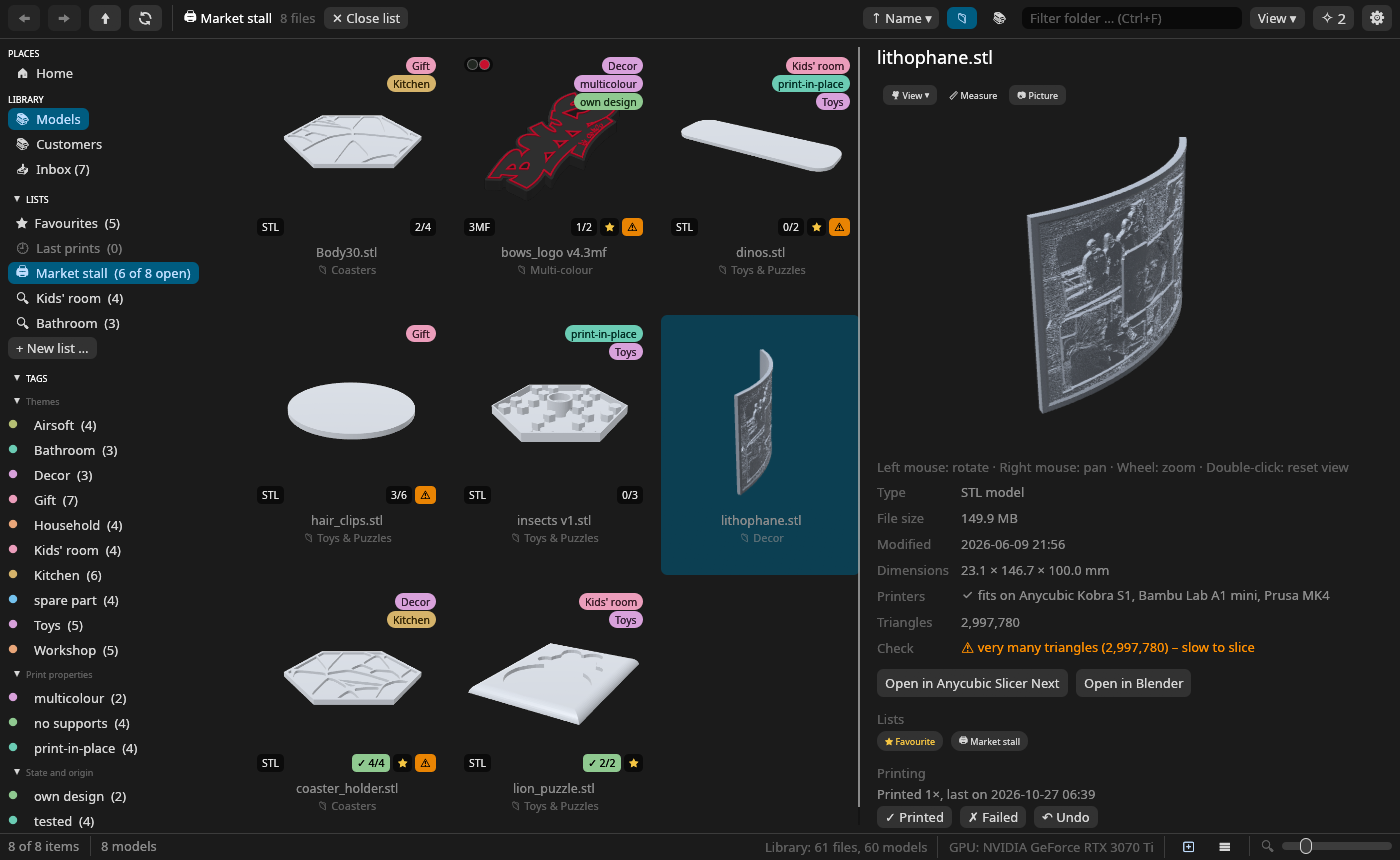
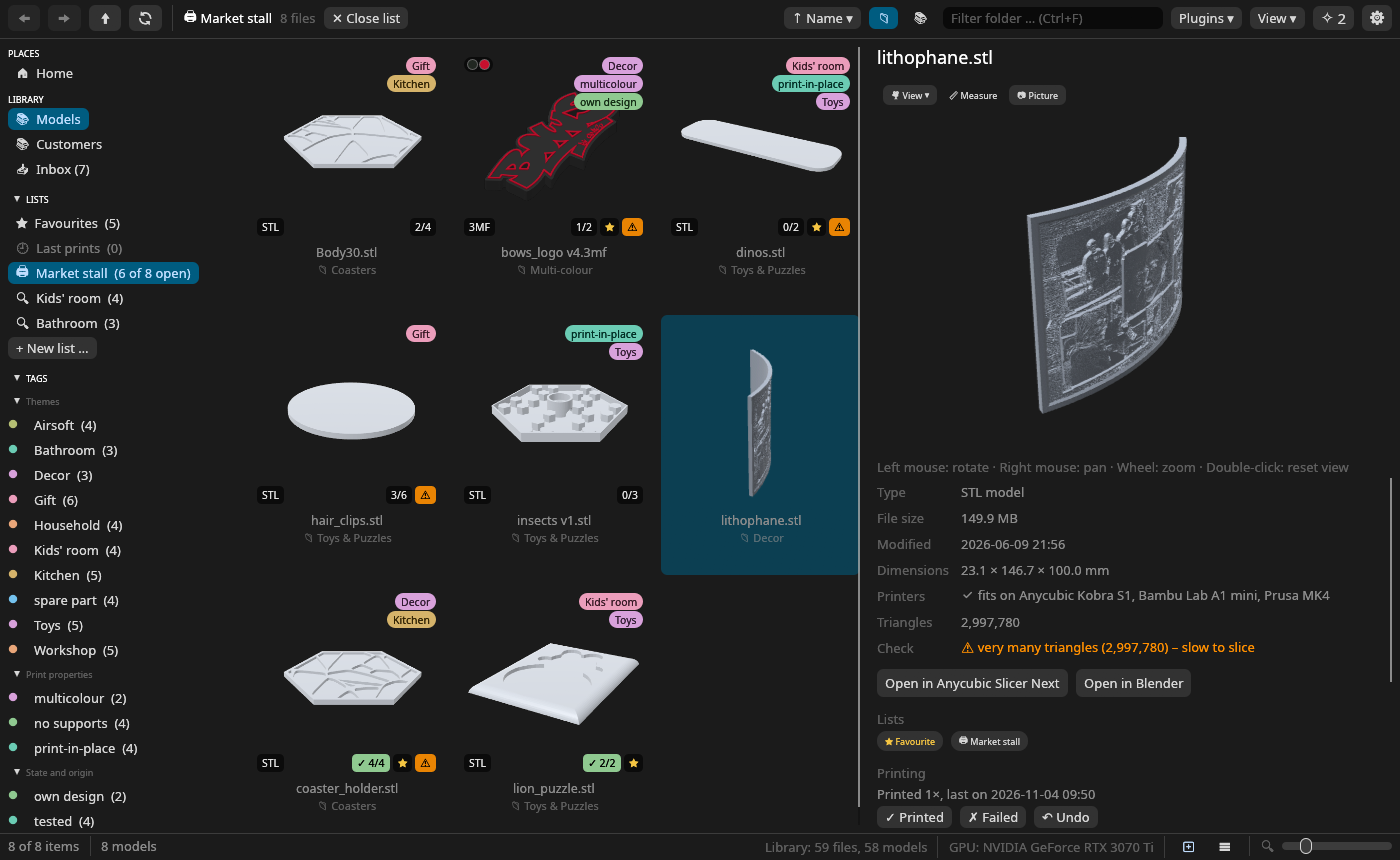
Screenshots from 0.8.3, and the plugins get their picture
The README series retaken with 0.8.3 (the toolbar's Plugins menu and
the fold button were missing), the settings page shows its Plugins
entry, and two new pictures show Bingrove's panel and the plugin page
in the release notes.

Changed region(s): [[0.5836, 0.0, 0.8907, 0.0302], [0.5221, 0.393, 0.5529, 0.5744], [0.7371, 0.907, 0.7679, 0.9372]]

diff --git a/packaging/release-notes.md b/packaging/release-notes.md
@@ -26,6 +26,11 @@ Video, screenshots and every download at a glance: [meshgrove.redneck-design.de]
 - Plugin tools join the AI chat and `meshgrove-mcp`, so your assistants can use them too. Stopping the chat stops a running tool, and pictures a tool returns show in the chat.
 - For developers: [how to write a plugin](https://github.com/DonDavis-vibe/MeshGrove/blob/v@VERSION@/docs/plugins.md), the `meshgrove-plugin-api` crate (MIT or Apache-2.0, so a plugin can use any license) and the small `hello-box` example.
 
+<p>
+<img src="https://github.com/DonDavis-vibe/MeshGrove/raw/v@VERSION@/docs/images/screenshot-plugin.png" alt="Bingrove's panel as a tab: the drawer's grid of bins, the 3D preview on the print bed and the list of parts" width="49%">
+<img src="https://github.com/DonDavis-vibe/MeshGrove/raw/v@VERSION@/docs/images/screenshot-plugin-settings.png" alt="Settings → Plugins: Bingrove installed, with the switches for what it may do" width="49%">
+</p>
+
 **Bingrove, the first plugin** (new in 0.8)
 
 - [Bingrove](https://github.com/DonDavis-vibe/Bingrove) makes Gridfinity inserts for your drawers: give it the drawer's size, arrange the bins in the grid editor (move, resize, merge, split, add holders), and it puts the STLs, the print beds and a print list into your library. Magnet holes are an option, and calibration pieces test the fit before the big print.
